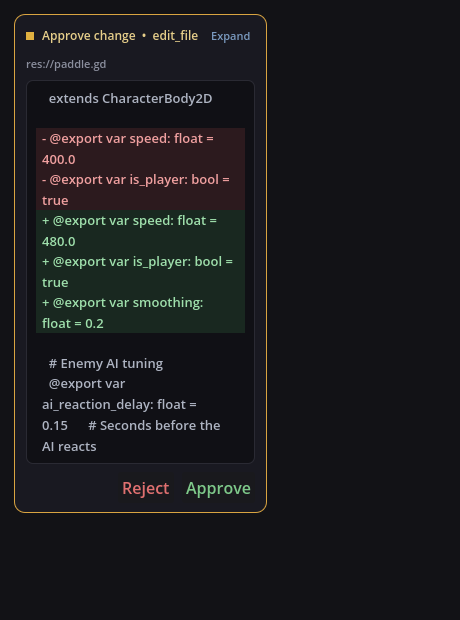
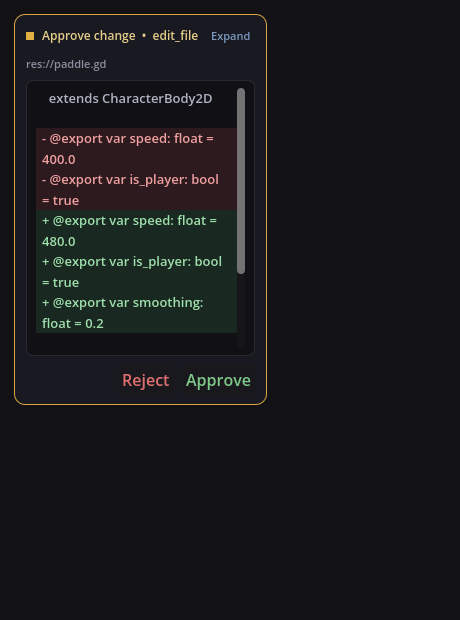
Cap inline diff height with internal scroll so Approve/Reject stay reachable; wait for layout before auto-scroll

diff --git a/addons/ai_copilot/docs/CHANGELOG.md b/addons/ai_copilot/docs/CHANGELOG.md
@@ -14,3 +14,4 @@
 - Fix: approval card was never configured (set_call ran before the view built its widgets), so the diff/actions never appeared
 - Approval card redesigned: dark themed, shows an inline colored diff for `write_file`/`edit_file` automatically (no extra click), with an Expand button for the full side-by-side view
 - Diff preview dialog restyled to match the editor dark theme with syntax highlighting
+- Fix: a tall approval diff pushed the Approve/Reject buttons out of reach — the inline diff now caps its height and scrolls internally, and the chat panel waits for layout before auto-scrolling
